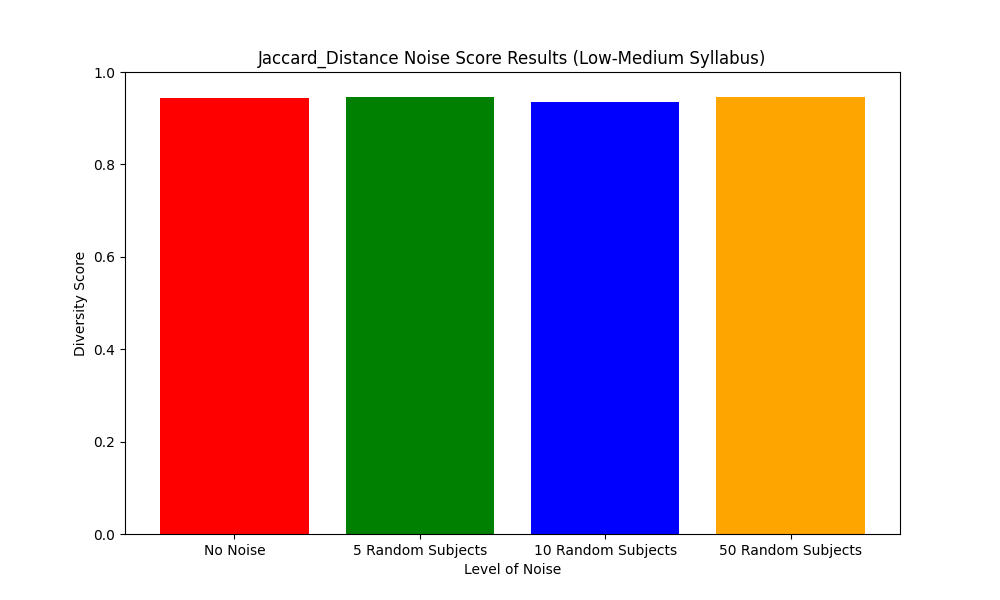
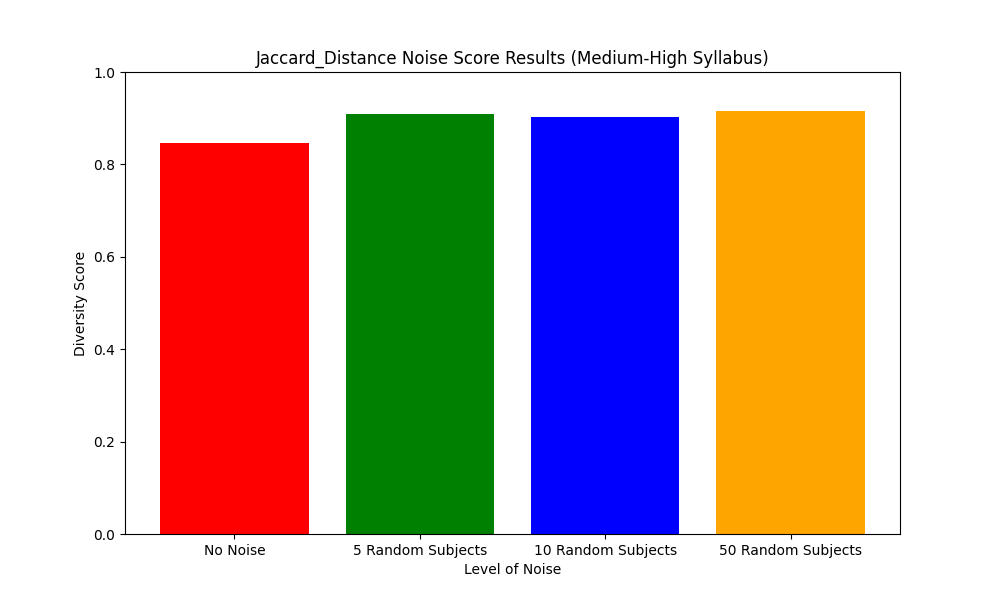
moving files

diff --git a/backend/pipeline.py b/backend/pipeline.py
@@ -613,7 +613,7 @@ def rec_delta_results():
         
 def perturb_data(measure):
     
-    sp = SyllabiPipeline("../example_syllabi/test3.csv", measure)
+    sp = SyllabiPipeline("../example_syllabi/test2.csv", measure)
     print("no noise: " + str(sp.diversity_measure))
     
     random_subjects = ['history', 'green', 'america', 'airports', 'cancer', 'biology', 'africa', 'ethnic', 'math', 'ethics', 'politics', 'economics', 'computer science', 'latino', 'perspective', 'hand', 'fish', 'teenager', 'adult', 'geology', 'apartments', 'urban', 'finance', 'adventure', 'mythology', 'technology', 'romance', 'psychology', 'poetry', 'leadership', 'literature', 'social', 'neuroscience', 'fiction', 'fantasy', 'asia', 'abolition', 'library', 'swamp', 'horse', 'bread', 'conservative', 'liberal', 'biography', 'english', 'nonfiction']
@@ -663,11 +663,11 @@ def perturb_data(measure):
     # Plotting the bar chart
     plt.figure(figsize=(10, 6))
     plt.bar(scores.keys(), scores.values(), color=['red', 'green', 'blue', 'orange'])
-    plt.title(f'{measure.title()} Noise Score Results (Medium-High Syllabus)')
+    plt.title(f'{measure.title()} Noise Score Results (Low-Medium Syllabus)')
     plt.xlabel('Level of Noise')
     plt.ylabel('Diversity Score')
     plt.ylim(0, 1)
-    plt.savefig(f'{measure}_noise.png')
+    plt.savefig(f'{measure}_noise2.png')
     
     
     
@@ -676,10 +676,10 @@ def perturb_data(measure):
 if __name__ == "__main__":
     
     # Empirical Results!
-    #results('raos_entropy')
-    #results('jaccard_distance')
-    #results('relevance_proportion')
-    #results('overlap_proportion')
+    results('raos_entropy')
+    results('jaccard_distance')
+    results('relevance_proportion')
+    results('overlap_proportion')
     
 
     # Recommendations
@@ -696,10 +696,10 @@ if __name__ == "__main__":
     
     
     # Testing Durability
-    perturb_data('raos_entropy')
-    perturb_data('jaccard_distance')
-    perturb_data('relevance_proportion')
-    perturb_data('overlap_proportion')
+    #perturb_data('raos_entropy')
+    #perturb_data('jaccard_distance')
+    #perturb_data('relevance_proportion')
+    #perturb_data('overlap_proportion')
      
 
         
